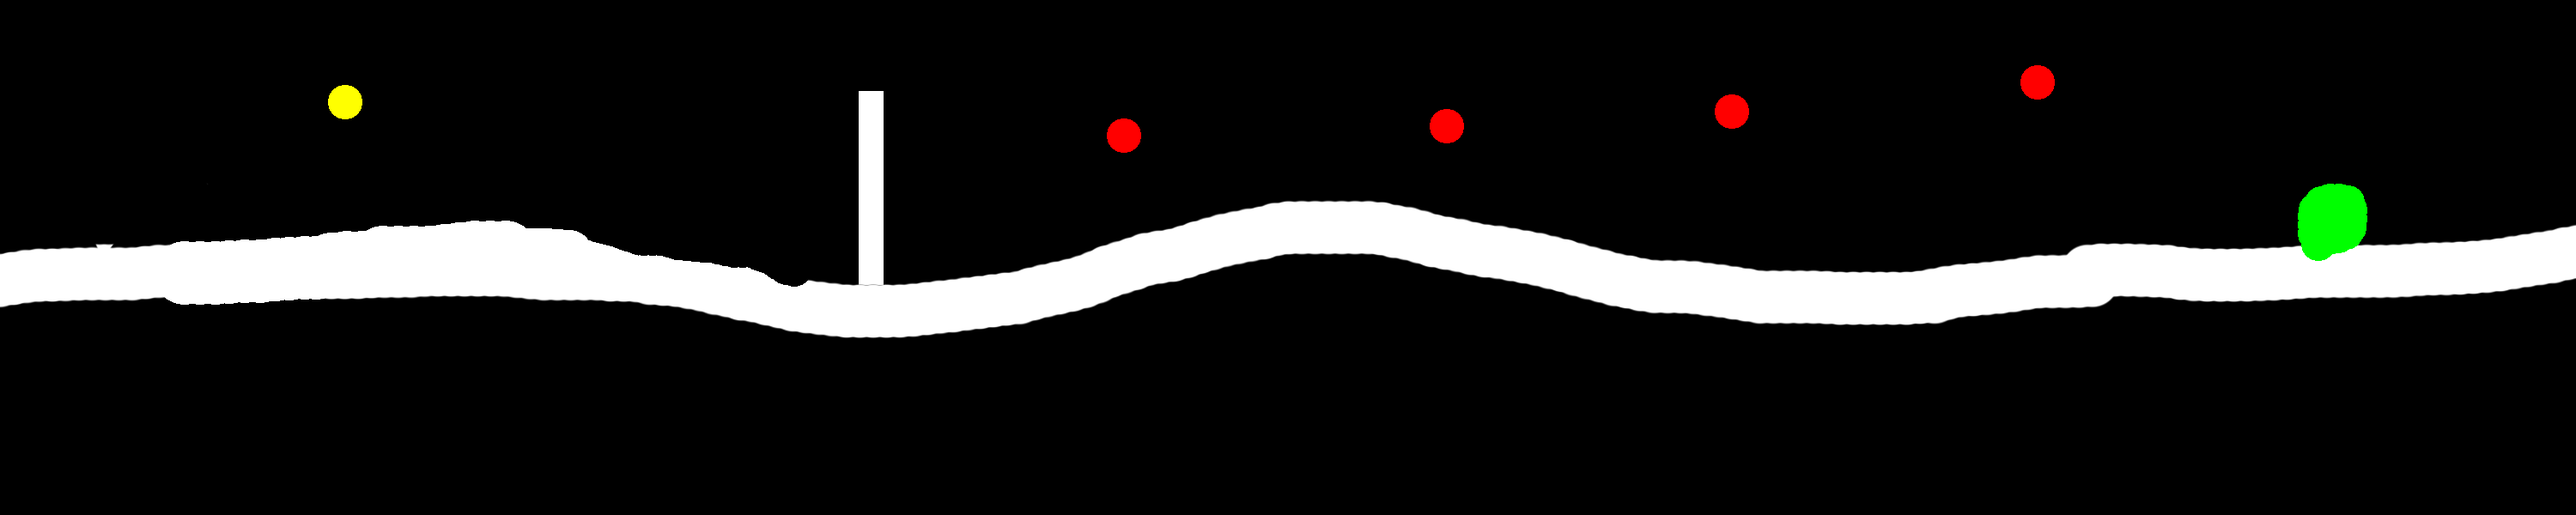
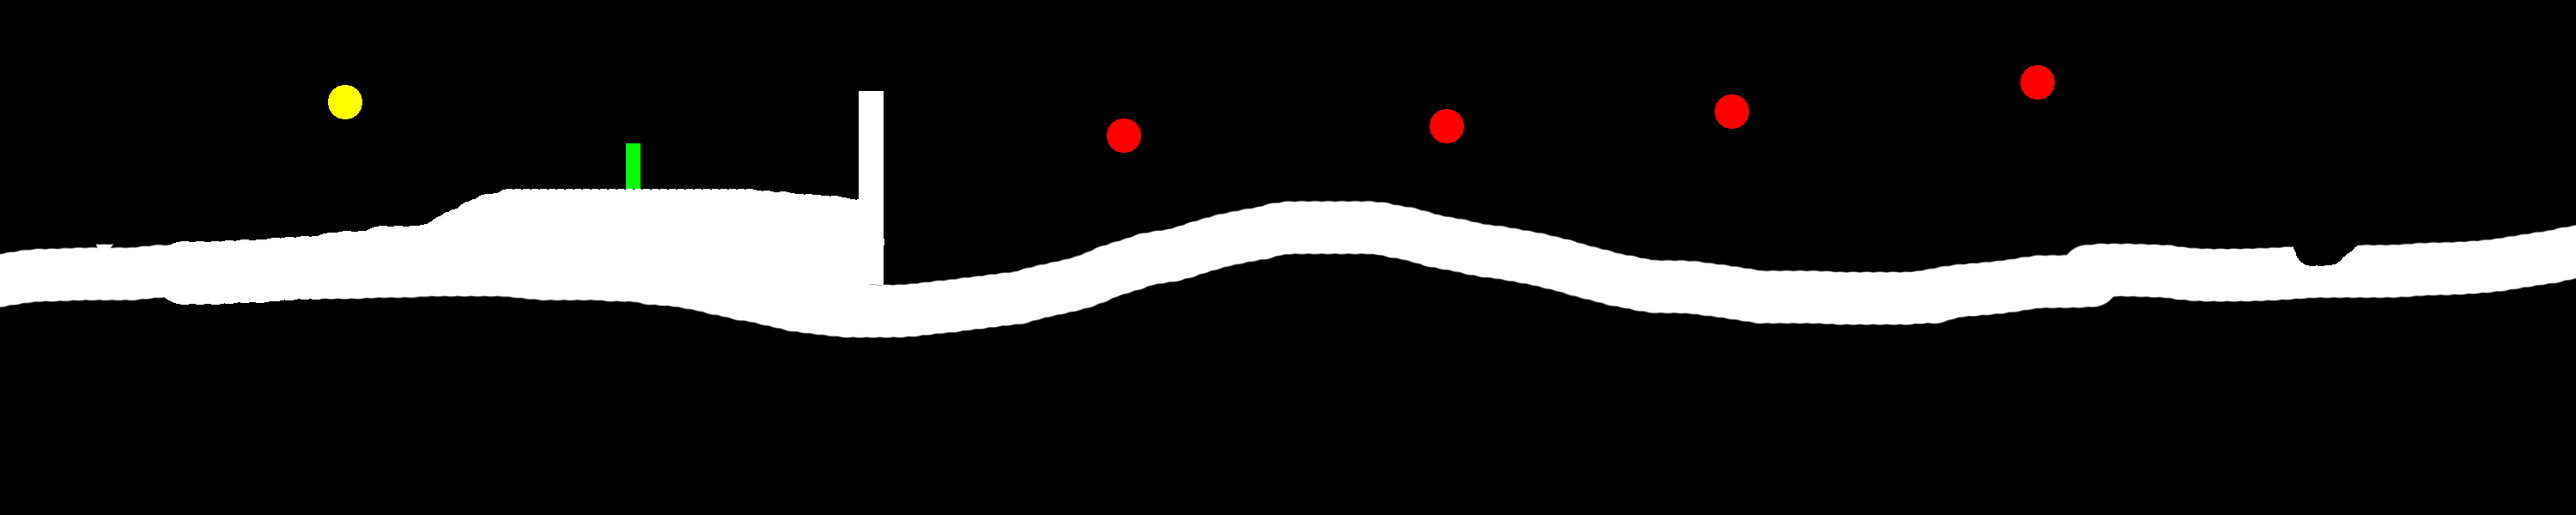
.

Changed region(s): [[0.155, 0.27, 0.341, 0.57], [0.868, 0.36, 0.93, 0.51]]

diff --git a/game.js b/game.js
@@ -253,7 +253,7 @@ export function gameLoop(time = 0) {
 			drawSpawnAnimation(ctx, deltaTime, levelData);
 			drawExitAnimation(ctx, deltaTime, detectedObjects.lemmingExits, levelData);
 			if (getDebugMode()) {
-				drawNonSolidOverlayDebug(ctx);
+				//drawNonSolidOverlayDebug(ctx);
 			}
 			if (getLemmingsReleased() < getNumberOfLemmingsForCurrentLevel()) {
 				releaseLemmings(deltaTime);
@@ -1377,7 +1377,7 @@ function drawExitAnimation(ctx, deltaTime, lemmingExits, levelData) {
   if (!theme || !lemmingExits || lemmingExits.length === 0) return;
 
   const cameraX = getCameraX();
-  const Y_SCALE = 0.8;
+  const Y_SCALE = 1;
 
   exitAnimationTimer += deltaTime;
   if (exitAnimationTimer > 100) {
@@ -1416,7 +1416,7 @@ export function drawExitFrame(ctx, theme, frameIndex, destX, destY, scale = 4) {
     spriteWidth,
     spriteHeight,
     drawX,
-    drawY,
+    drawY - 25,
     scaledWidth,
     scaledHeight
   );
@@ -1460,8 +1460,8 @@ function checkLemmingVersusNonSurfaceCollisions(lemmings) {
 		};
 
 		for (const enemy of detectedObjects.enemiesAir) {
-			const scaledMinY = enemy.minY * 0.8;
-			const scaledMaxY = enemy.maxY * 0.8;
+			const scaledMinY = enemy.minY;
+			const scaledMaxY = enemy.maxY;
 			const enemyRect = {
 				x: enemy.minX,
 				y: scaledMinY,
@@ -1474,8 +1474,8 @@ function checkLemmingVersusNonSurfaceCollisions(lemmings) {
 		}
 
 		for (const enemy of detectedObjects.enemiesGround) {
-			const scaledMinY = enemy.minY * 0.8;
-			const scaledMaxY = enemy.maxY * 0.8;
+			const scaledMinY = enemy.minY;
+			const scaledMaxY = enemy.maxY;
 			const enemyRect = {
 				x: enemy.minX,
 				y: scaledMinY,
@@ -1488,8 +1488,8 @@ function checkLemmingVersusNonSurfaceCollisions(lemmings) {
 		}
 
 		for (const exit of detectedObjects.lemmingExits) {
-			const scaledMinY = exit.minY * 0.8;
-			const scaledMaxY = exit.maxY * 0.8;
+			const scaledMinY = exit.minY;
+			const scaledMaxY = exit.maxY;
 			const exitRect = {
 				x: exit.minX,
 				y: scaledMinY,
@@ -2130,7 +2130,7 @@ export function updateCollisionPixels() {
 function drawDetectedObjects(ctx, detectedObjects) {
 	const cameraX = getCameraX();
 	const radius = 20;
-	const Y_SCALE = 0.8;
+	const Y_SCALE = 1;
 
 	detectedObjects.enemiesAir.forEach(enemy => {
 		const centerX = (enemy.minX + enemy.maxX) / 2 - cameraX;
